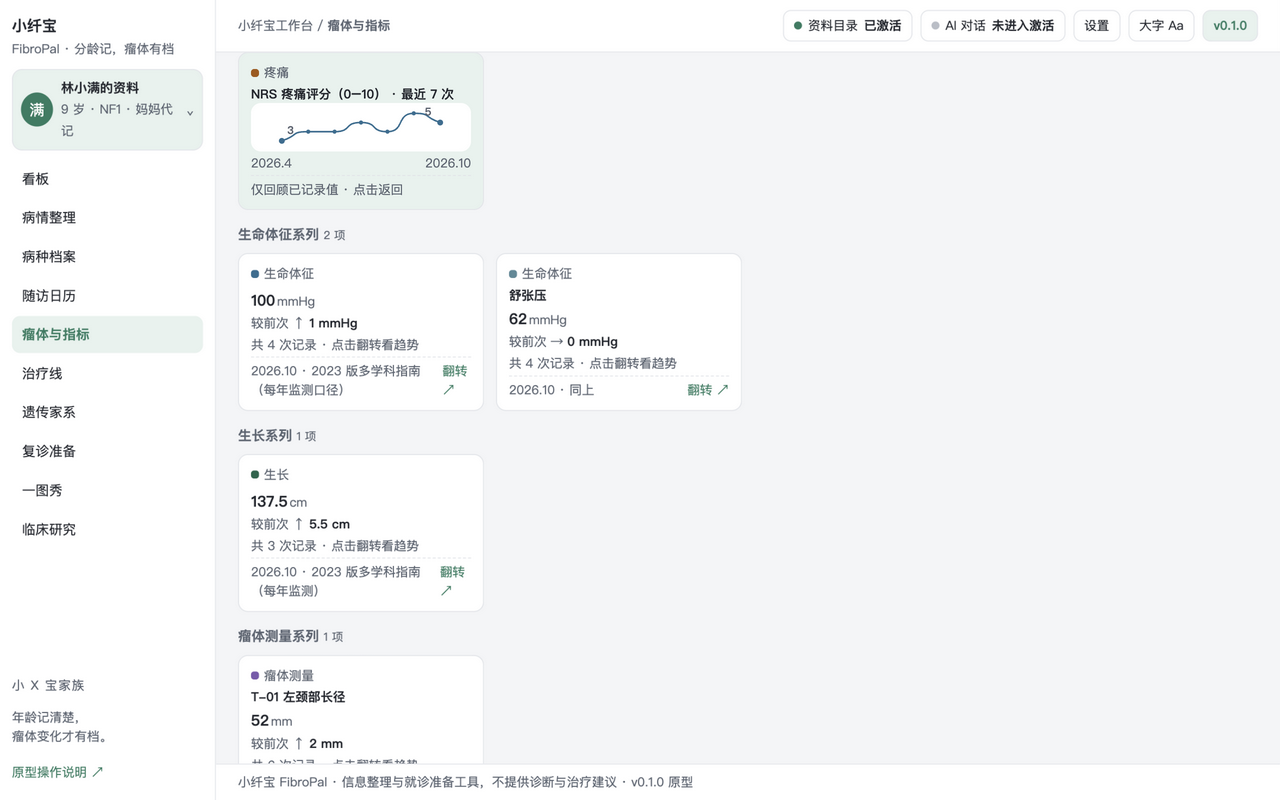
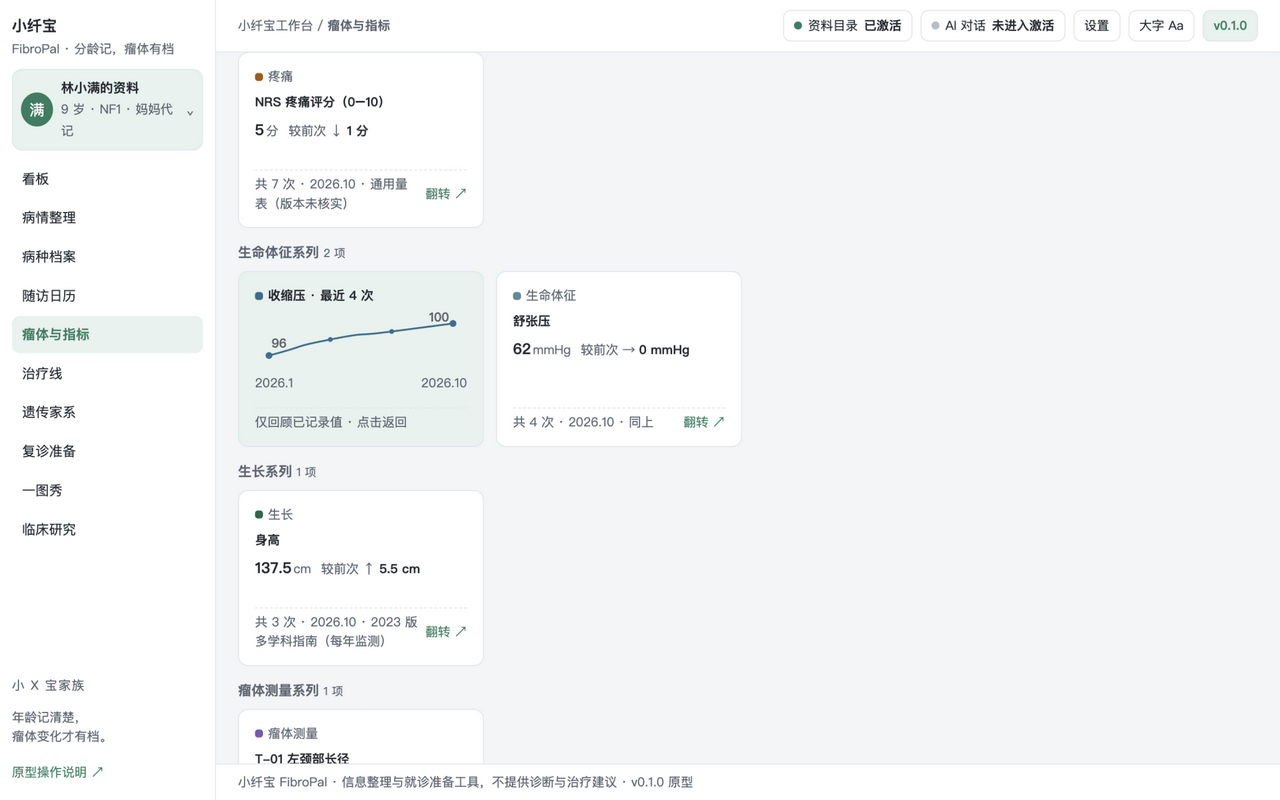
Prototype polish per user feedback: declutter flip cards (4-row face, value+delta inline, merged meta), remove chart background color; screenshots refreshed

diff --git a/prototypes/v0.1/style.css b/prototypes/v0.1/style.css
@@ -63,21 +63,24 @@ th { font-size: 12.5px; color: var(--ink-2); font-weight: 600; }
 .series-group { margin-bottom: 14px; }
 .series-group > h3 { font-size: 13.5px; color: var(--ink-2); margin: 0 0 8px; }
 .mgrid { display: grid; grid-template-columns: repeat(auto-fill, minmax(200px, 1fr)); gap: 12px; }
-.mcard { position: relative; height: 158px; border: 0; background: none; padding: 0; text-align: left; perspective: 900px; }
+.mcard { position: relative; height: 176px; border: 0; background: none; padding: 0; text-align: left; perspective: 900px; }
 .mcard-inner { position: absolute; inset: 0; transform-style: preserve-3d; transition: transform .5s cubic-bezier(.2,.7,.2,1); }
 .mcard-inner.flipped { transform: rotateY(180deg); }
-.mface { position: absolute; inset: 0; backface-visibility: hidden; -webkit-backface-visibility: hidden; background: var(--card); border: 1px solid var(--line); border-radius: var(--radius); padding: 10px 12px; display: flex; flex-direction: column; gap: 2px; }
+.mface { position: absolute; inset: 0; backface-visibility: hidden; -webkit-backface-visibility: hidden; background: var(--card); border: 1px solid var(--line); border-radius: var(--radius); padding: 14px 16px; display: flex; flex-direction: column; gap: 6px; }
 .mface.back { transform: rotateY(180deg); background: var(--accent-soft); }
 .mcat { display: inline-flex; align-items: center; gap: 5px; font-size: 12.5px; color: var(--ink-2); }
 .mcat i { width: 8px; height: 8px; border-radius: 3px; flex: 0 0 8px; }
 .mname { font-size: 12.5px; font-weight: 600; overflow: hidden; text-overflow: ellipsis; white-space: nowrap; }
 .mval { font-size: 15px; font-weight: 700; }
+.mvalrow { display: flex; align-items: baseline; gap: 10px; }
+.mname .dotchip { display: inline-block; width: 8px; height: 8px; border-radius: 3px; margin-right: 5px; }
 .mval small { font-size: 12.5px; font-weight: 400; color: var(--ink-2); margin-left: 2px; }
 .mdelta { font-size: 12.5px; color: var(--ink-2); }
 .mdelta em { font-style: normal; color: var(--ink); font-weight: 600; }
 .mrec { font-size: 12.5px; color: var(--ink-2); }
 .mmeta { margin-top: auto; display: flex; justify-content: space-between; align-items: center; gap: 6px; font-size: 12.5px; color: var(--ink-2); border-top: 1px dashed var(--line); padding-top: 4px; }
-.mmeta .hint { color: var(--accent); }
+.mmeta .hint { color: var(--accent); white-space: nowrap; }
+.mmeta > span:first-child { overflow: hidden; text-overflow: ellipsis; }
 .msp-labels { display: flex; justify-content: space-between; font-size: 12.5px; color: var(--ink-2); }
 .mfoot { margin-top: auto; font-size: 12.5px; color: var(--ink-2); border-top: 1px dashed var(--line); padding-top: 4px; }
 .mna { font-size: 12.5px; color: var(--ink-2); margin-top: 6px; }
@@ -117,7 +120,7 @@ svg.chart .dot:hover { r: 6; }
 .foldout-body[hidden] { display: none; }
 
 /* 图表 */
-svg.chart { width: 100%; height: auto; display: block; background: var(--card); border: 1px solid var(--line); border-radius: var(--radius); }
+svg.chart { width: 100%; height: auto; display: block; border: 1px solid var(--line); border-radius: var(--radius); }
 .chart text { font-size: 12.5px; fill: var(--ink-2); }
 .chart .curve { fill: none; stroke: var(--chart); stroke-width: 2; }
 .chart .dot { fill: var(--chart); }

diff --git a/prototypes/v0.1/app.js b/prototypes/v0.1/app.js
@@ -165,18 +165,15 @@ function mcard(m) {
   const cat = esc(m.group.replace('系列', ''));
   const front = '<span class="mcat"><i style="background:' + color + '"></i>' + cat + '</span>'
     + '<span class="mname">' + esc(m.name) + '</span>'
-    + '<span class="mval">' + (last ? last.v : '—') + '<small>' + esc(m.unit || '') + '</small></span>'
-    + '<span class="mdelta">' + delta + '</span>'
-    + '<span class="mrec">共 ' + pts.length + ' 次记录' + (pts.length > 1 ? ' · 点击翻转看趋势' : '') + '</span>'
-    + '<span class="mmeta"><span>' + (last ? longDate(last.d) : '—') + ' · ' + esc(m.source) + '</span><span class="hint">翻转 ↗</span></span>';
+    + '<span class="mvalrow"><span class="mval">' + (last ? last.v : '—') + '<small>' + esc(m.unit || '') + '</small></span>'
+    + '<span class="mdelta">' + delta + '</span></span>'
+    + '<span class="mmeta"><span>共 ' + pts.length + ' 次 · ' + (last ? longDate(last.d) : '—') + ' · ' + esc(m.source) + '</span><span class="hint">翻转 ↗</span></span>';
   const back = pts.length > 1
-    ? '<span class="mcat"><i style="background:' + color + '"></i>' + cat + '</span>'
-      + '<span class="mname">' + esc(m.name) + ' · 最近 ' + pts.length + ' 次</span>'
+    ? '<span class="mname"><i class="dotchip" style="background:' + color + '"></i>' + esc(m.name) + ' · 最近 ' + pts.length + ' 次</span>'
       + sparkPts(pts, color)
       + '<span class="msp-labels"><span>' + longDate(pts[0].d) + '</span><span>' + longDate(last.d) + '</span></span>'
       + '<span class="mfoot">仅回顾已记录值 · 点击返回</span>'
-    : '<span class="mcat"><i style="background:' + color + '"></i>' + cat + '</span>'
-      + '<span class="mname">' + esc(m.name) + '</span>'
+    : '<span class="mname"><i class="dotchip" style="background:' + color + '"></i>' + esc(m.name) + '</span>'
       + '<span class="mna">只有 ' + pts.length + ' 次记录，暂不连线。<br>再记录一次后显示趋势。</span>'
       + '<span class="mfoot">点击返回</span>';
   return '<button class="mcard" data-flip="' + m.id + '" aria-pressed="' + flipped + '" aria-label="' + esc(m.name) + '，' + (last ? last.v + (m.unit || '') : '无记录') + '；点击翻转">'

diff --git a/docs/PROTOTYPE-REVIEW.md b/docs/PROTOTYPE-REVIEW.md
@@ -24,3 +24,8 @@
 - 返工中实测修复：demo-data 加色正则咬坏 series 键（语法错）；smoothPath 需数组入参（一图秀/卡背曾全 NaN）；pin 与 chips 需入 data-action 路由；端值标签按系列序错位防压字；治疗带 x1 钳制入绘图区。
 - 实测证据：04-onechart-rail-default / 04-onechart-dynamic-switched（近12月高亮+勾选换指标即时重绘）/ 04-onechart-pin / 02-tumors-metrics / 02-tumors-metrics-flipped 五张新截图。
 - 新增 P2：一图秀多指标下月度刻度在窄容器可能拥挤（v0.2 随窄形态复测）。
+
+## 2026-10-25 二次微调（用户反馈：翻转卡拥挤、折线图不要背景色）
+- 卡面 4 行化：值+较前次同行，「共 N 次·日期·来源」合并进 meta 行（超长省略号，翻转提示不再竖排）；卡高 158→176、内边距与行距加大；背面去分类行（色点并入名称行）。
+- svg.chart 去背景色（保留细边框；卡背 sparkline 本就无边框）。
+- 刷新截图：02-tumors-metrics / 02-tumors-metrics-flipped / 04-onechart-rail-default。
